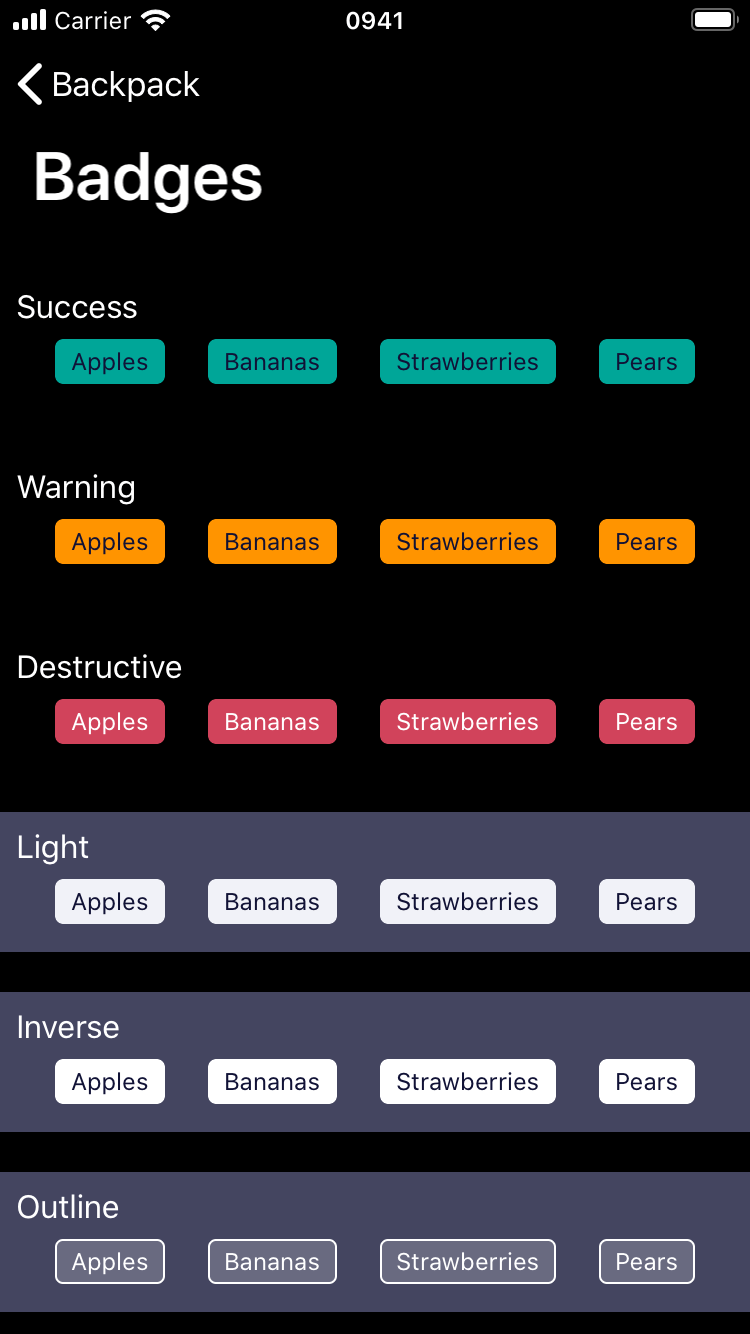
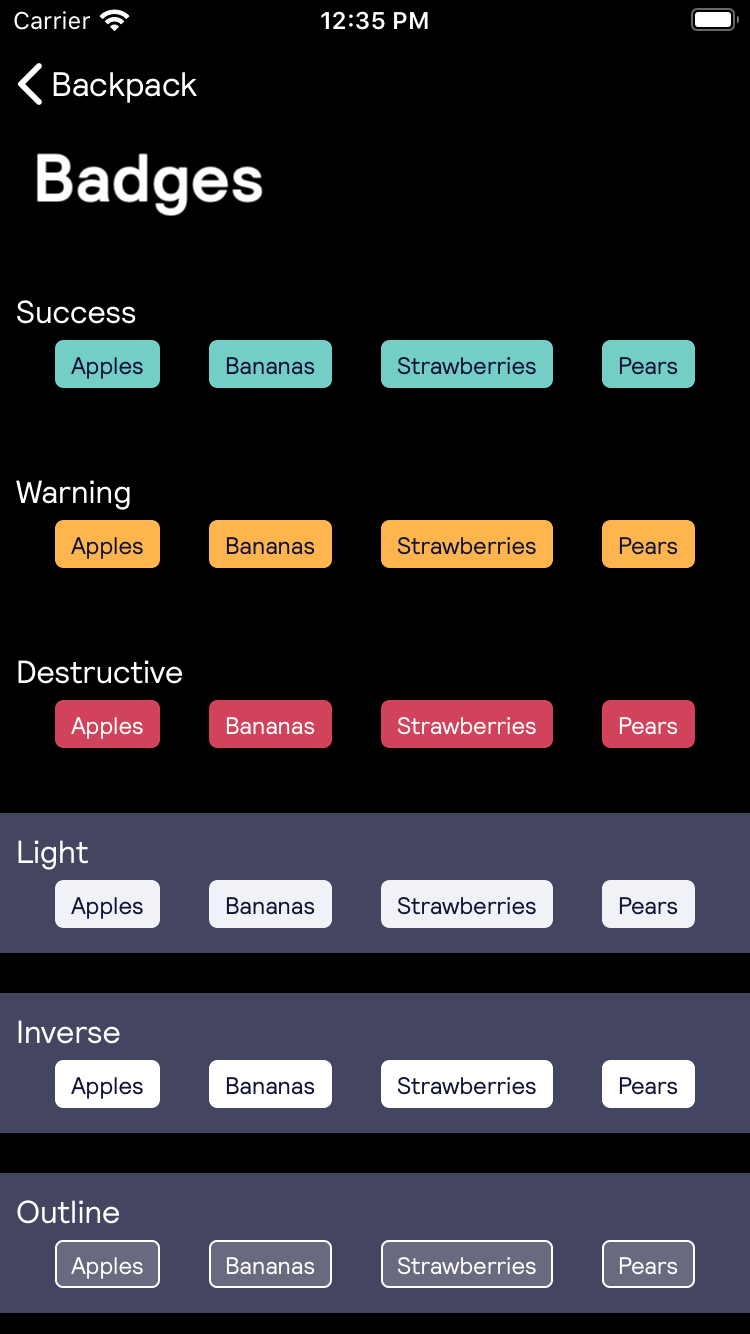
[BPK-3440] Lighten coloured badges

diff --git a/Backpack/Badge/Classes/BPKBadge.m b/Backpack/Badge/Classes/BPKBadge.m
@@ -83,10 +83,10 @@ NS_ASSUME_NONNULL_BEGIN
     self.layer.borderWidth = 0.0;
     switch (type) {
     case BPKBadgeTypeSuccess:
-        self.backgroundColor = BPKColor.monteverde;
+        self.backgroundColor = [BPKColor dynamicColorWithLightVariant:BPKColor.monteverde darkVariant:BPKColor.glencoe];
         break;
     case BPKBadgeTypeWarning:
-        self.backgroundColor = BPKColor.kolkata;
+        self.backgroundColor = [BPKColor dynamicColorWithLightVariant:BPKColor.kolkata darkVariant:BPKColor.erfoud];
         break;
     case BPKBadgeTypeDestructive:
         self.backgroundColor = BPKColor.panjin;
@@ -107,9 +107,9 @@ NS_ASSUME_NONNULL_BEGIN
     }
 
     if (type == BPKBadgeTypeOutline || type == BPKBadgeTypeDestructive) {
-        self.label.textColor = [BPKColor white];
+        self.label.textColor = BPKColor.white;
     } else {
-        self.label.textColor = [BPKColor skyGray];
+        self.label.textColor = BPKColor.skyGray;
     }
 }
 

diff --git a/UNRELEASED.md b/UNRELEASED.md
@@ -1,6 +1,10 @@
 # Unreleased
 > Place your changes below this line.
 
+**Fixed:**
+- Backpack/Badge:
+  - Lightened the dark-mode colours used for `success` and `warning` badges to make them more visually appealing.
+
 ## How to write a good changelog entry
 1. Add 'Breaking', 'Added' or 'Fixed' in bold depending on if the change will be major, minor or patch according to [semver](semver.org).
 2. Add the package name.
